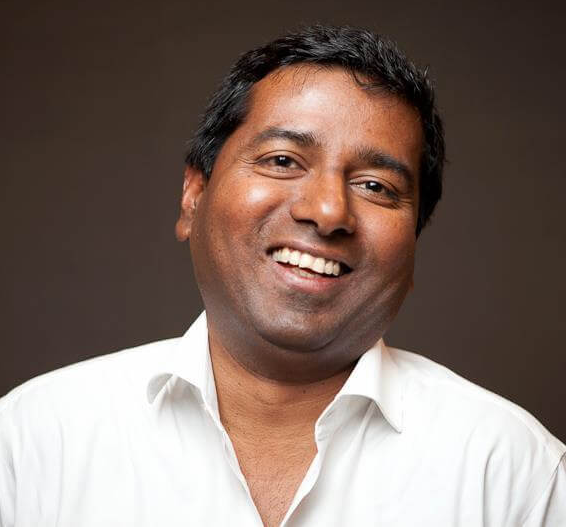
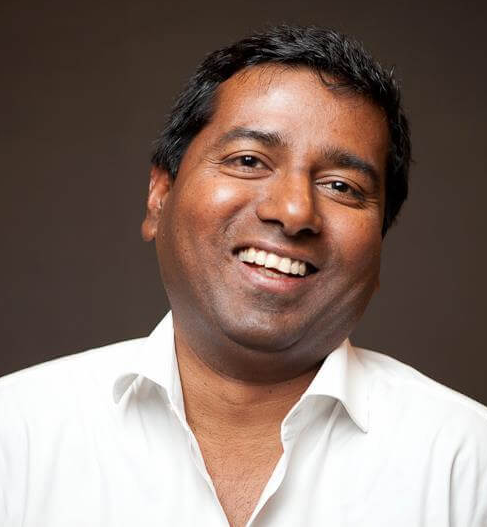
Added heading, fixed rahul image

diff --git a/public/css/mentors.css b/public/css/mentors.css
@@ -1,3 +1,4 @@
+@import url("https://fonts.googleapis.com/css?family=Charm");
 .mentorContainer {
   overflow: auto;
   /* Common style */
@@ -205,6 +206,11 @@
   transition: transform 0.6s, -webkit-transform 0.6s;
   -webkit-transform: scale3d(1.9, 1.4, 1) rotate3d(0, 0, 1, 45deg) translate3d(0, -100%, 0);
   transform: scale3d(1.9, 1.4, 1) rotate3d(0, 0, 1, 45deg) translate3d(0, -100%, 0);
+}
+
+.mentorContainer .heading {
+  font-family: 'Charm';
+  border-bottom: 2px solid grey;
 }
 
 @media screen and (max-width: 600px) {

diff --git a/public/css/mentors.scss b/public/css/mentors.scss
@@ -1,3 +1,5 @@
+@import url('https://fonts.googleapis.com/css?family=Charm');
+
 .mentorContainer {
   // height: 300vh;
   // display: table;
@@ -215,6 +217,12 @@
     -webkit-transform: scale3d(1.9, 1.4, 1) rotate3d(0, 0, 1, 45deg) translate3d(0, -100%, 0);
     transform: scale3d(1.9, 1.4, 1) rotate3d(0, 0, 1, 45deg) translate3d(0, -100%, 0);
   }
+
+  
+    .heading{
+      font-family: 'Charm';
+      border-bottom: 2px solid grey;
+    }
 }
 
 

diff --git a/public/css/presente_style.css b/public/css/presente_style.css
@@ -1,6 +1,7 @@
 @import url("https://fonts.googleapis.com/css?family=Open+Sans:300,400");
 main {
   background-image: url("/images/featuresImage.jpg");
+  background-size: cover;
   background-repeat: no-repeat;
   padding-top: 30px;
   padding-bottom: 30px;

diff --git a/public/css/presente_style.scss b/public/css/presente_style.scss
@@ -1,6 +1,7 @@
 main {
   // padding: 20px 64px 64px;
   background-image: url("/images/featuresImage.jpg");
+  background-size: cover;
   background-repeat: no-repeat;
   padding-top:30px;
   padding-bottom:30px;
